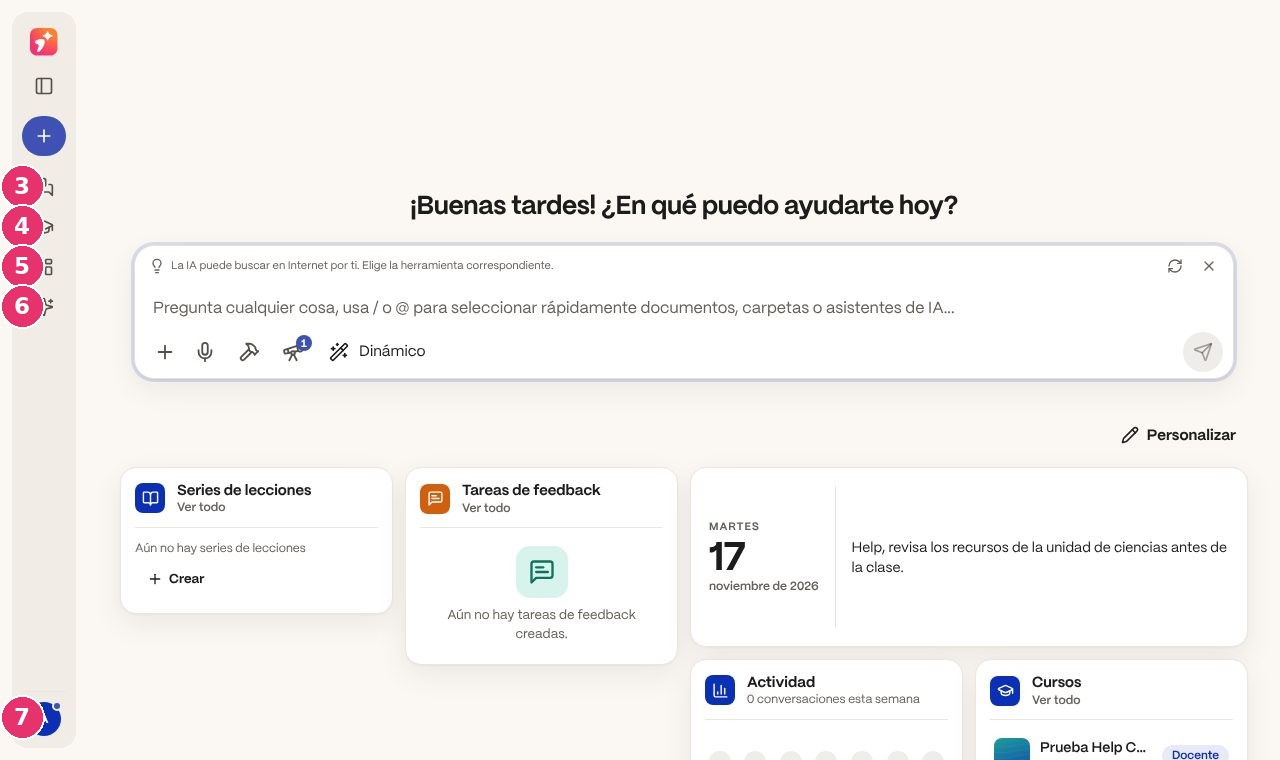
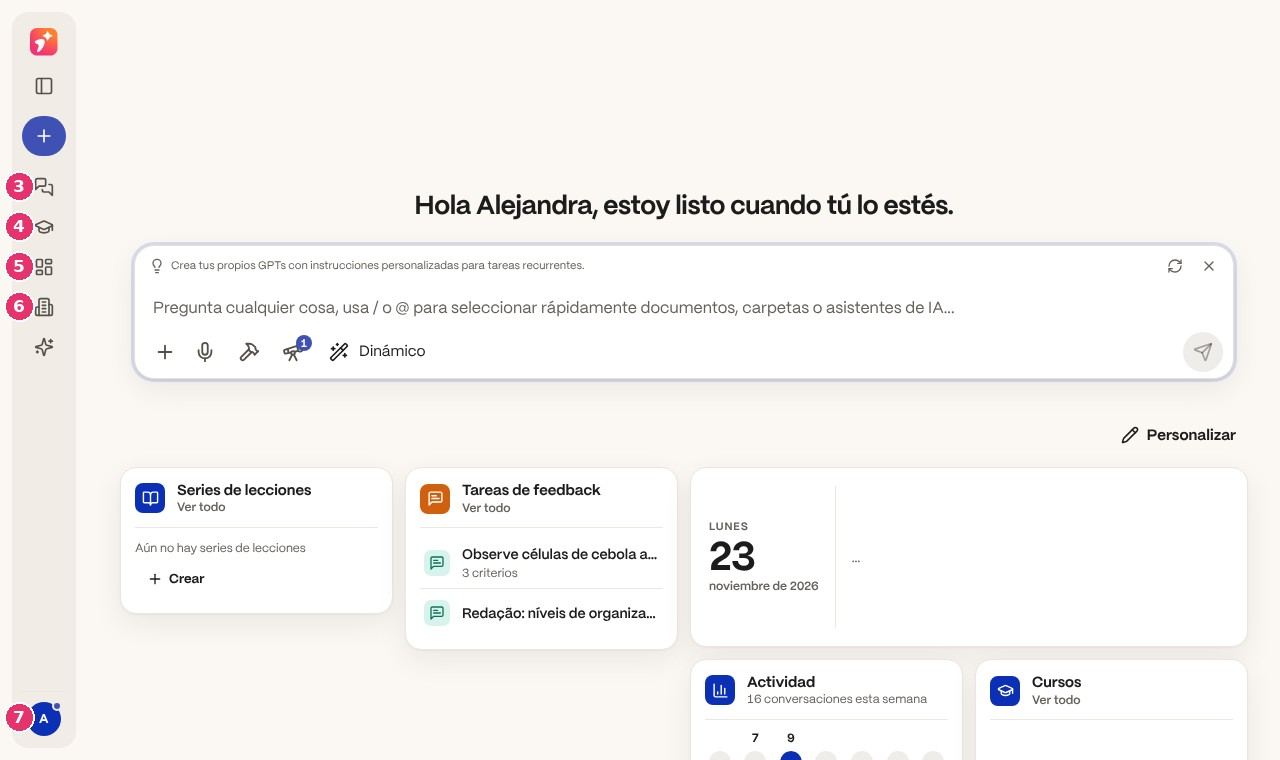
Paridad de capturas en conversaciones, herramientas, citas y ¿Qué es?
Mismo número de capturas en español y portugués para hacer-pregunta,
conversacion-modos, herramientas-asistente, participantes-citas y que-es.

Claude-Session: https://claude.ai/code/session_01Eik173jfn4Xqssn59JmxJK

diff --git a/single/content-expansions.py b/single/content-expansions.py
@@ -852,3 +852,39 @@ _pt_shots('tarea-correccion-biblioteca', {1: 'pt__tarea-correccion-biblioteca__p
 MERGE_TEXT['pt-BR'].setdefault('tarea-calibrar', {})
 MERGE_TEXT['pt-BR']['tarea-calibrar']['img'] = ['pt-tarea-lista']
 MERGE_TEXT['pt-BR']['tarea-calibrar']['shots'] = {'pt-tarea-lista': 'Lista de Tarefas de correção e feedback com as tarefas criadas'}
+
+# Conversas e ferramentas: capturas em portugués equivalentes às espanholas
+MERGE_TEXT['pt-BR'].setdefault('hacer-pregunta', {})
+MERGE_TEXT['pt-BR']['hacer-pregunta']['img'] = ['pt__hacer-pregunta__pt-conversa-inicio', 'pt-conversa-respuesta']
+MERGE_TEXT['pt-BR']['hacer-pregunta']['stepImg'] = {'3': 'pt__hacer-pregunta__pt-conversa-inicio'}
+MERGE_TEXT['pt-BR']['hacer-pregunta']['shots'] = {'pt__hacer-pregunta__pt-conversa-inicio': 'Tela inicial do chat com o campo de pergunta, o botão de ferramentas e o botão de enviar', 'pt-conversa-respuesta': 'Resposta do assistente na conversa'}
+MERGE_TEXT['pt-BR'].setdefault('conversacion-contexto', {})
+MERGE_TEXT['pt-BR']['conversacion-contexto']['img'] = ['pt-conversaciones']
+MERGE_TEXT['pt-BR']['conversacion-contexto']['stepImg'] = {}
+MERGE_TEXT['pt-BR']['conversacion-contexto']['shots'] = {'pt-conversaciones': 'Lista de conversas com a conversa criada'}
+MERGE_TEXT['pt-BR'].setdefault('respuesta-no-correcta', {})
+MERGE_TEXT['pt-BR']['respuesta-no-correcta']['img'] = ['pt-conversaciones']
+MERGE_TEXT['pt-BR']['respuesta-no-correcta']['stepImg'] = {}
+MERGE_TEXT['pt-BR']['respuesta-no-correcta']['shots'] = {'pt-conversaciones': 'Lista de conversas com a conversa criada'}
+MERGE_TEXT['pt-BR'].setdefault('conversacion-modos', {})
+MERGE_TEXT['pt-BR']['conversacion-modos']['img'] = ['pt__conversacion-modos__pt-modos']
+MERGE_TEXT['pt-BR']['conversacion-modos']['stepImg'] = {'2': 'pt__conversacion-modos__pt-modos'}
+MERGE_TEXT['pt-BR']['conversacion-modos']['shots'] = {'pt__conversacion-modos__pt-modos': 'Lista de modos de conversa com Dinâmico, Padrão e as ferramentas'}
+MERGE_TEXT['pt-BR'].setdefault('herramientas-asistente', {})
+MERGE_TEXT['pt-BR']['herramientas-asistente']['img'] = ['pt__herramientas-asistente__pt-herramientas', 'pt__herramientas-asistente__pt-modos']
+MERGE_TEXT['pt-BR']['herramientas-asistente']['stepImg'] = {'4': 'pt__herramientas-asistente__pt-herramientas', '3': 'pt__herramientas-asistente__pt-modos'}
+MERGE_TEXT['pt-BR']['herramientas-asistente']['shots'] = {'pt__herramientas-asistente__pt-herramientas': 'Menu de ferramentas do assistente com Gerir biblioteca e Criar H5P', 'pt__herramientas-asistente__pt-modos': 'Modos de conversa com o seletor de ferramentas e o botão de ferramentas'}
+_CHAT_PT_OK = True
+
+# Citas: misma pareja de capturas que en español (sin la de cita guardada)
+MERGE_TEXT['pt-BR'].setdefault('participantes-citas', {})
+MERGE_TEXT['pt-BR']['participantes-citas']['img'] = ['pt__participantes-citas__pt-cita-pestana', 'pt__participantes-citas__pt-cita-formulario']
+MERGE_TEXT['pt-BR']['participantes-citas']['stepImg'] = {'2': 'pt__participantes-citas__pt-cita-pestana', '4': 'pt__participantes-citas__pt-cita-formulario'}
+MERGE_TEXT['pt-BR']['participantes-citas']['shots'] = {
+    'pt__participantes-citas__pt-cita-pestana': 'Separador Citas do curso com o botão Criar cita no passo 2',
+    'pt__participantes-citas__pt-cita-formulario': 'Formulário Criar cita com os campos e o botão Guardar no passo 4'}
+# Qué es: pantalla de inicio con la barra lateral numerada (paso 7 en la versión española)
+MERGE_TEXT['pt-BR'].setdefault('que-es', {})
+MERGE_TEXT['pt-BR']['que-es']['img'] = ['pt__que-es__pt-inicio']
+MERGE_TEXT['pt-BR']['que-es']['stepImg'] = {'7': 'pt__que-es__pt-inicio'}
+MERGE_TEXT['pt-BR']['que-es']['shots'] = {'pt__que-es__pt-inicio': 'Início do assistente com a barra lateral: conversas, cursos, biblioteca, administração e o perfil no passo 7'}
